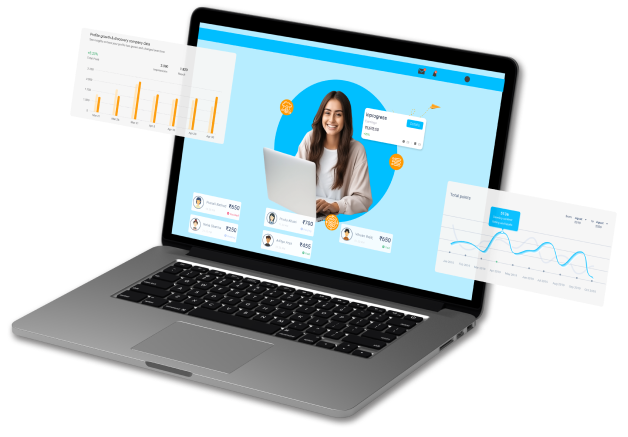
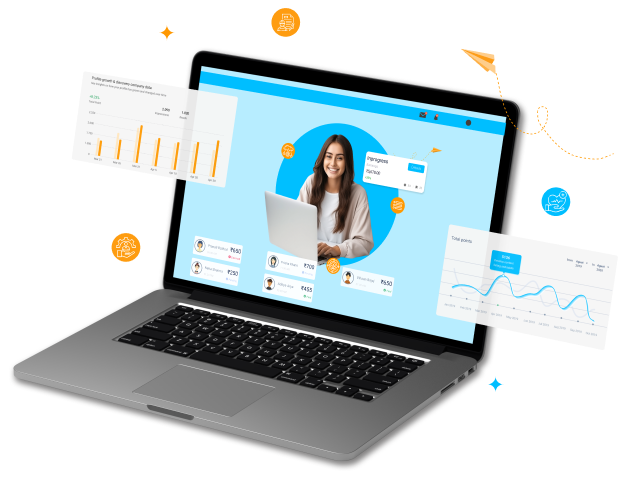
06/11

diff --git a/micro-sized-business.html b/micro-sized-business.html
@@ -370,7 +370,7 @@
                     <div class="row">
                         <div class="col-lg-6 wow fadeInLeft">
                             <div class="image-wrapper">
-                                <img src="images/thmb-pillars-illo.avif" alt="">
+                                <img src="images/Micro-Sized.png" alt="">
                             </div>
                         </div>
                         <!--* End Col -->
